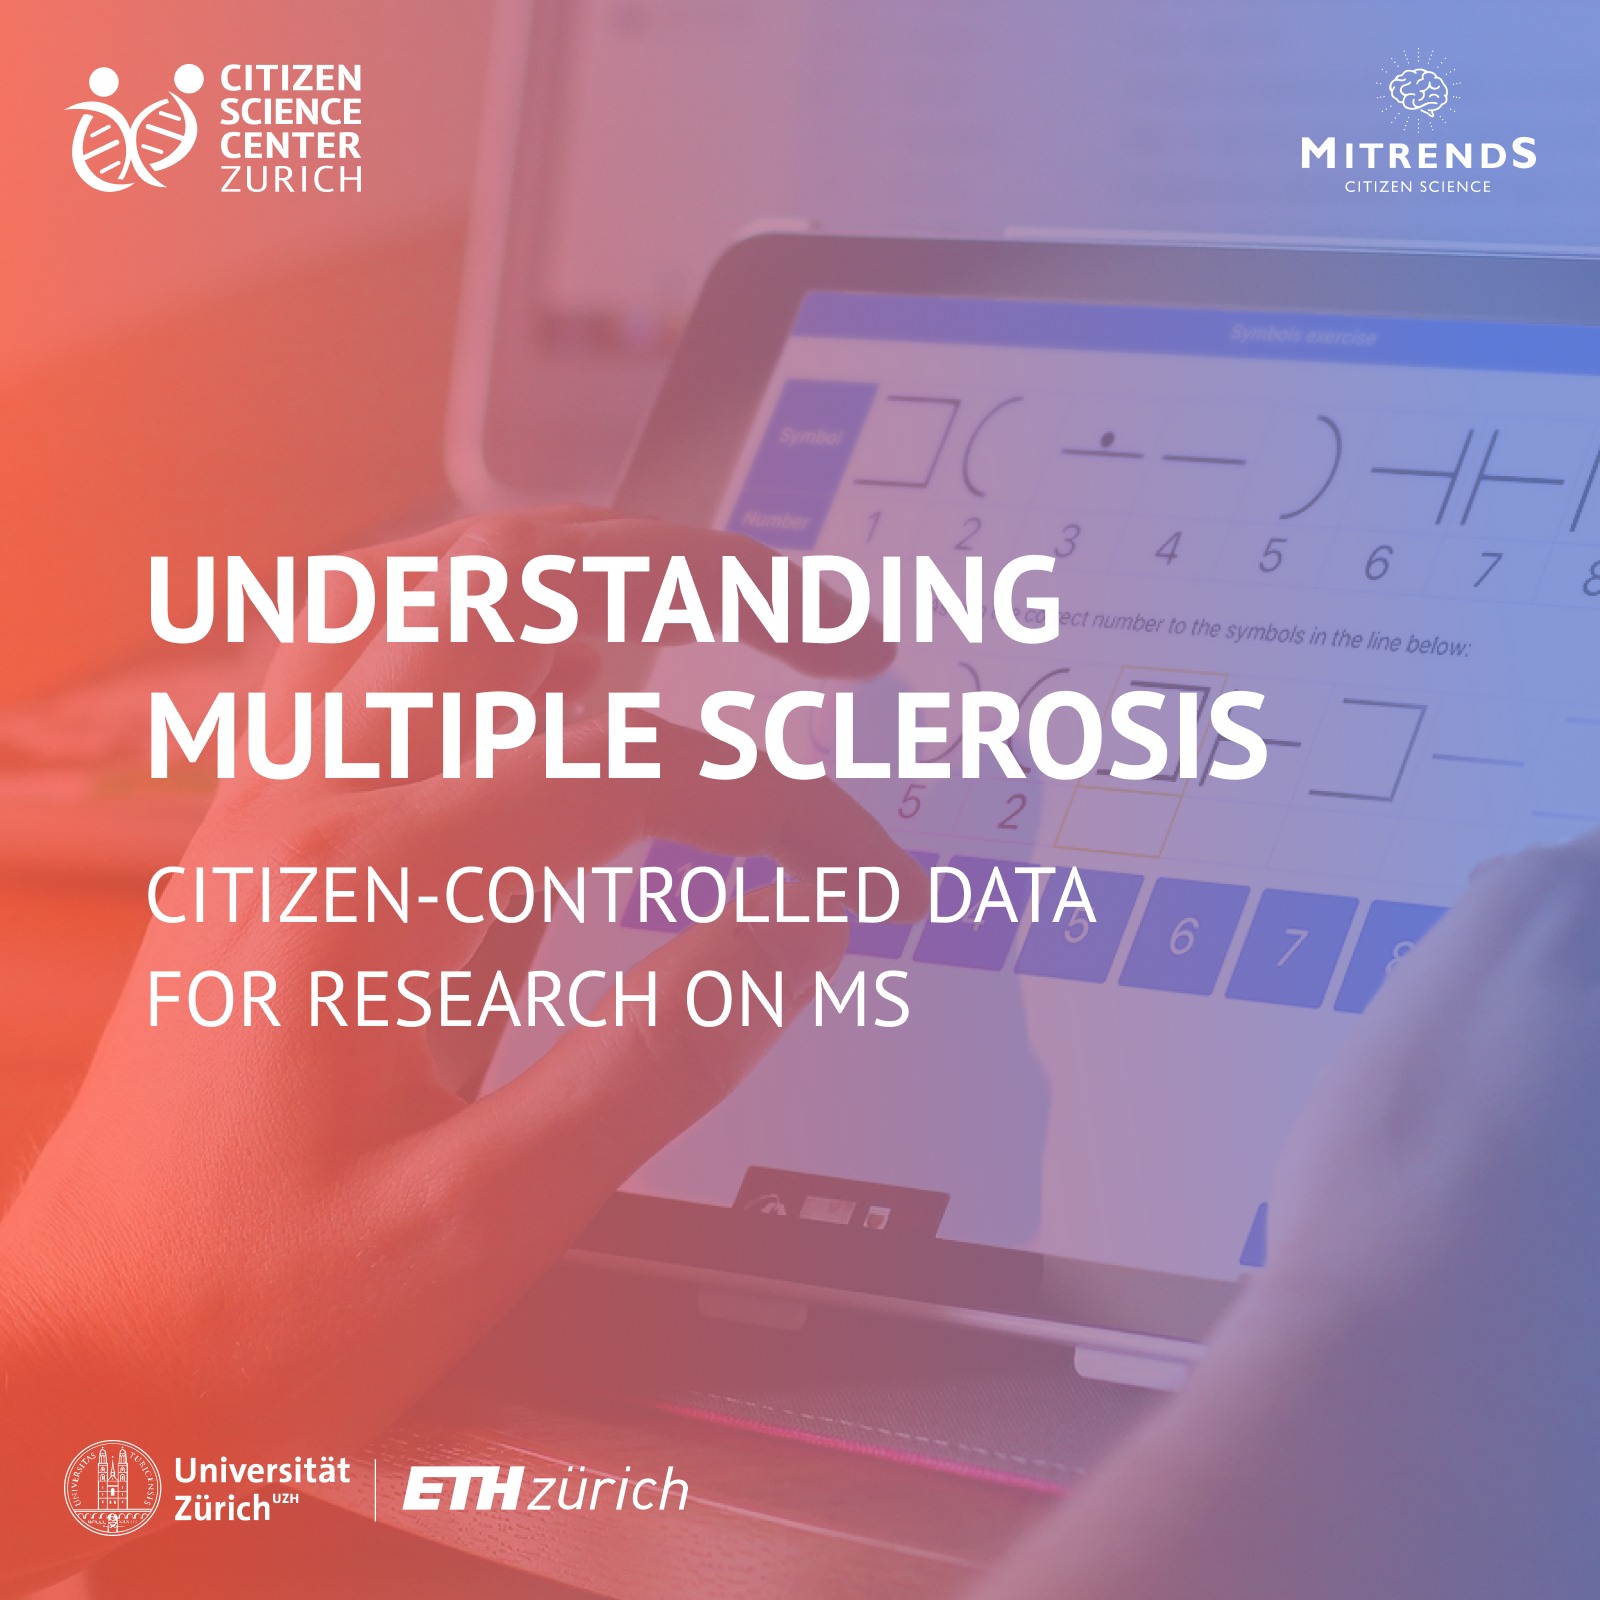
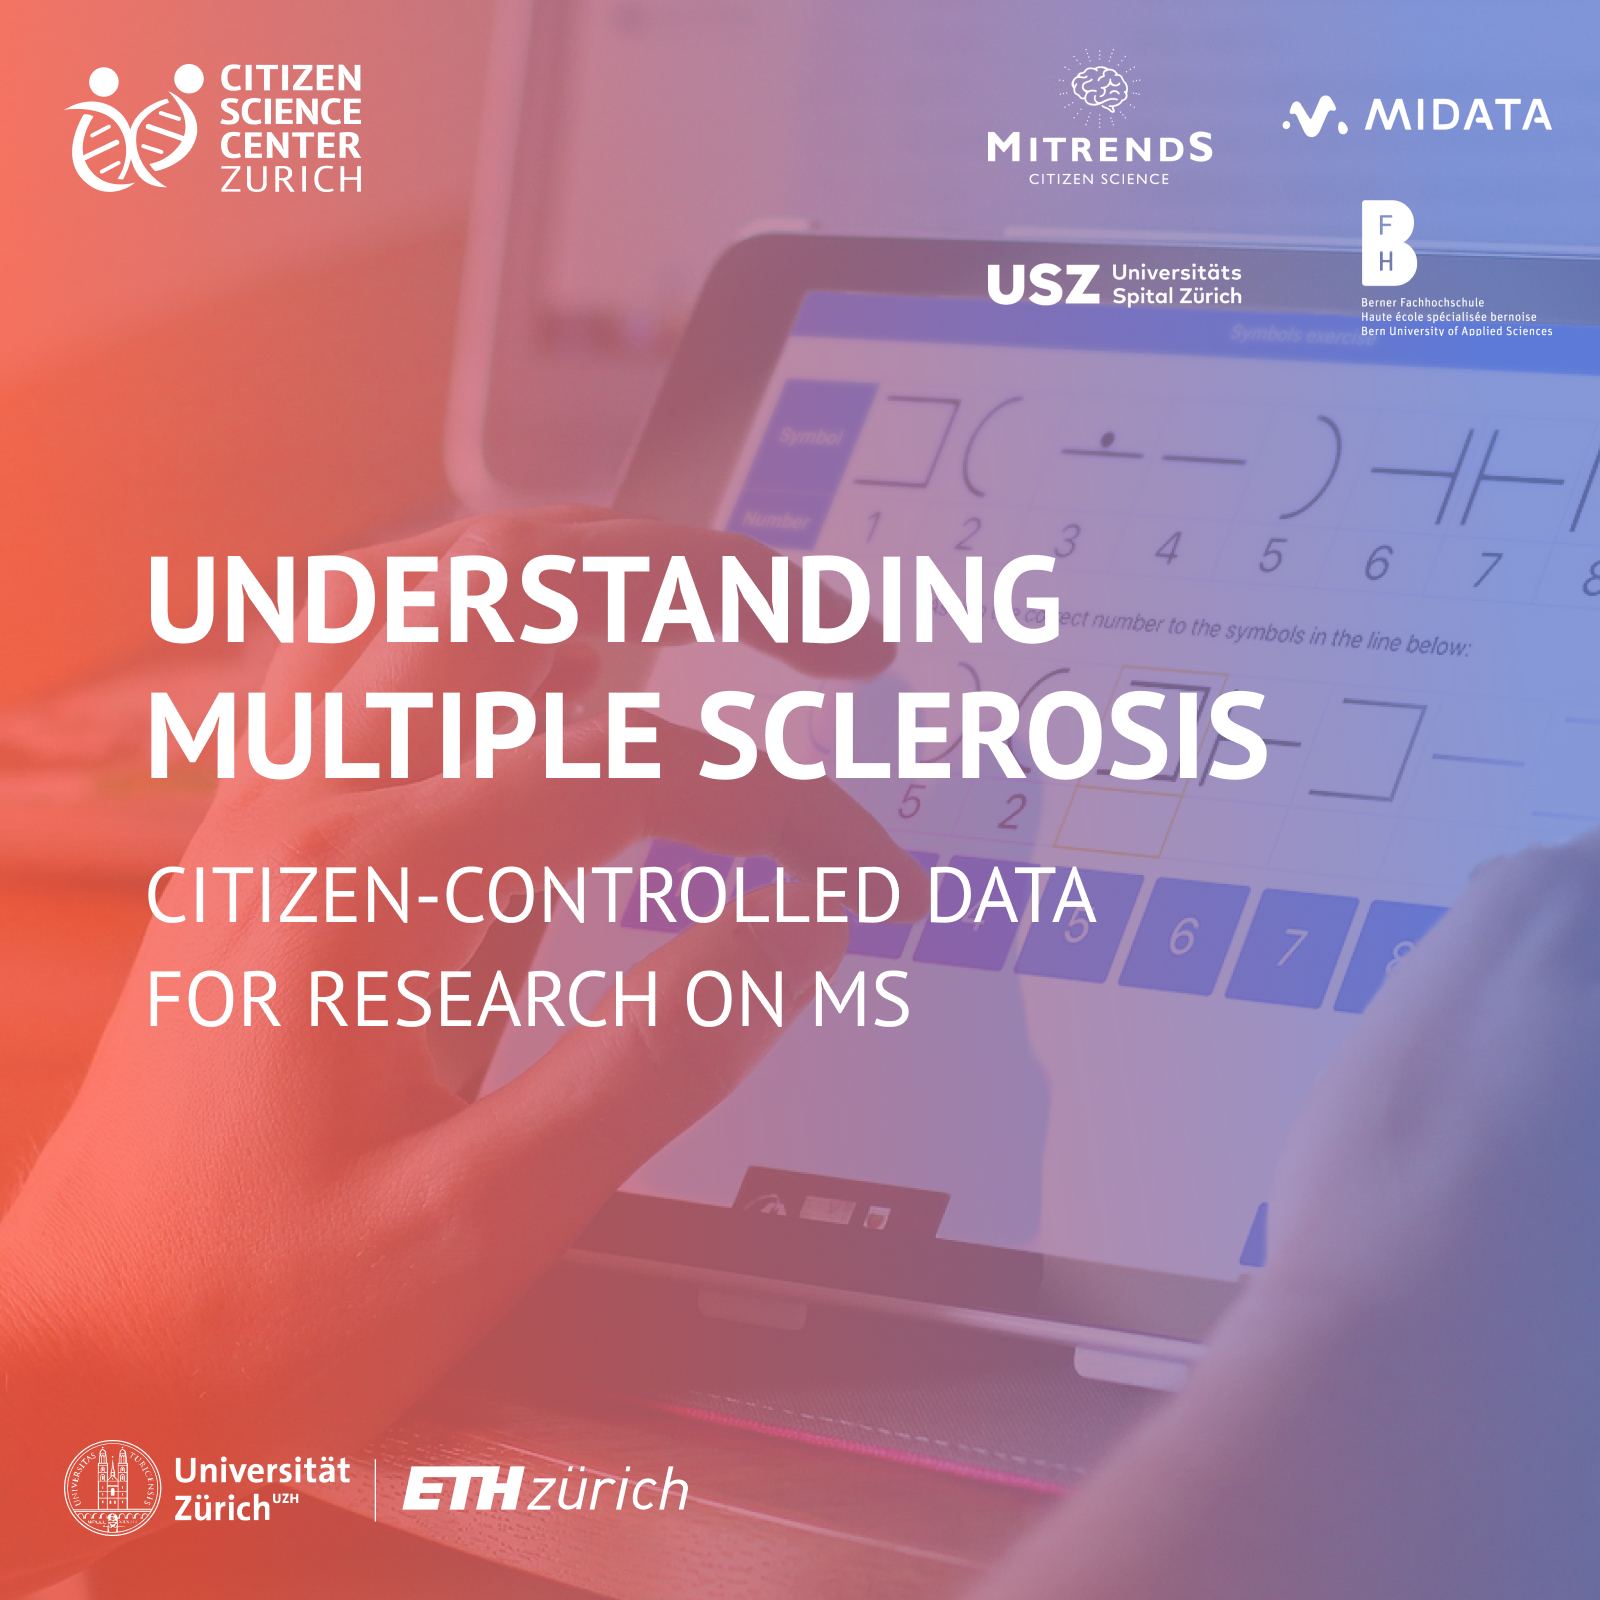
content changes

Changed region(s): [[0.8125, 0.0312, 0.9688, 0.2188], [0.625, 0.0312, 0.75, 0.125], [0.5938, 0.1562, 0.7812, 0.1875]]

diff --git a/src/views/Study.vue b/src/views/Study.vue
@@ -5,7 +5,7 @@
 
   "page-title": "The Study",
 
-  "ms-heading": "What is Multiple Sclerosis?",
+  "ms-heading": "What Is Multiple Sclerosis?",
   "ms-text": "Multiple Sclerosis (MS) is a chronic disease of the central nervous system. The protective and insulating cells of the nerves of the brain and spinal cord are attacked and destroyed by the body’s immune system. This results in an individual constellation of symptoms for each patient. The exact mechanisms that lead to MS are still being investigated. At the moment we know that it is a complex interaction of multiple sources. Infectious as well as genetic and environmental influences contribute to the development of the disease.  Although new drugs are able to stop the progression of the disease to a large extent, it involves slowing down the body’s immune system, which leads to side effects such as increased susceptibility to sickness.  A cure for MS does not yet exist. In addition to the development of targeted drugs, the development of new measurement methods for the more accurate recording of individual symptoms is also important. This is the goal of the MitrendS study.",
 
   "study-heading": "The Study",
@@ -15,11 +15,13 @@
   "study-text-4": "By participating in this citizen science project, you will help us to gain a deeper, more differentiated knowledge of the individual progression of the disease and symptoms of MS.",
   "study-text-5": "To learn more about the study, visit our website:",
   "study-button": "MitrendS.ch",
+  "study-button-link" : "https://mitrends.ch/en",
 
   "data-heading": "Data Usage",
   "data-text-1": "The data is stored on individual user accounts on the MIDATA platform. Thus, the data remains completely in the possession and under the control of the users. The non-profit MIDATA cooperative runs a platform which supports data-driven research through patient empowerment and citizen science approaches. The MIDATA platform provides a personal and secure environment to merge the data collected by various mobile applications (i.e., MitrendS) with health-related data from hospitals and physicians. This data is used for results evaluation and research. Users have complete control about data sharing. Any type of data sharing requires their consent.",
   "data-text-2": "For further information about MIDATA and its structure, visit:",
-  "data-button": "midata.coop"
+  "data-button": "midata.coop",
+  "data-button-link" : "https://www.midata.coop/en"
 
   },
   "de": {
@@ -36,11 +38,13 @@
   "study-text-4": "Mit der Teilnahme an dieser Studie helfen Sie uns vertiefte, differenzierte Kenntnisse über den individuellen Krankheitsverlauf und Symptome der Multiplen Sklerose zu erlangen.",
   "study-text-5": "Um mehr über die Studie zu erfahren, besuchen Sie unsere Website:",
   "study-button": "MitrendS.ch",
+  "study-button-link" : "https://mitrends.ch/de",
 
   "data-heading": "Datennutzung",
   "data-text-1": "Die Daten werden auf dem entsprechenden Benutzerkonto der MIDATA-Plattform gespeichert. Somit bleiben die Daten vollständig in Besitz und unter Kontrolle der Nutzenden. Die MIDATA Genossenschaft ist eine komplett unabhängige Plattform und unterstützt datengetriebene Forschung durch Patientenbefähigung und «Citizen Science» Ansätze. Die MIDATA-Plattform bietet eine persönliche und sichere Umgebung, um die von verschiedenen mobilen Anwendungen (z.B. MitrendS) gesammelten Daten mit gesundheitsbezogenen Daten von Spitälern und Gesundheitsfachpersonen zusammenzuführen. Diese Daten werden für die Ergebnisbewertung und Forschung verwendet. Die Nutzerinnen und Nutzer haben die vollständige Kontrolle über die gemeinsame Nutzung der Daten. Jede Art der gemeinsamen Nutzung von Daten erfordert ihre Zustimmung.",
   "data-text-2": "Weitere Informationen über MIDATA:",
-  "data-button": "midata.coop"
+  "data-button": "midata.coop",
+  "data-button-link" : "https://www.midata.coop"
 
   }
 
@@ -96,7 +100,7 @@
             <p v-html="$t('study-text-5')"></p>
             <div class="margin-bottom">
               <div class="button-group centered left-aligned-large">
-                <a href="https://mitrends.ch/" target="_blank" class="button button-primary button-icon button-normal-case">
+                <a :href="$t('study-button-link')" target="_blank" class="button button-primary button-icon button-normal-case">
                   <svg xmlns="http://www.w3.org/2000/svg" viewBox="0 0 576 576"><path d="M576,56V184c0,21.47-26,32-41,17l-35.71-35.71L255.8,408.77a24,24,0,0,1-33.94,0l-22.63-22.63a24,24,0,0,1,0-33.94L442.76,108.68,407.05,73C392,57.9,402.66,32,424,32H552A24,24,0,0,1,576,56ZM407,302.79l-16,16a24,24,0,0,0-7,17V480H64V160H328a24,24,0,0,0,17-7l16-16c15.12-15.12,4.41-41-17-41H48A48,48,0,0,0,0,144V496a48,48,0,0,0,48,48H400a48,48,0,0,0,48-48V319.76C448,298.38,422.15,287.67,407,302.79Z"/></svg>
                   {{ $t('study-button') }}
                 </a>
@@ -127,7 +131,7 @@
             <p v-html="$t('data-text-1')"></p>
             <p v-html="$t('data-text-2')"></p>
             <div class="button-group centered left-aligned-large">
-              <a href="https://midata.coop" target="_blank" class="button button-primary button-icon button-normal-case">
+              <a :href="$t('data-button-link')" target="_blank" class="button button-primary button-icon button-normal-case">
                 <svg xmlns="http://www.w3.org/2000/svg" viewBox="0 0 576 576"><path d="M576,56V184c0,21.47-26,32-41,17l-35.71-35.71L255.8,408.77a24,24,0,0,1-33.94,0l-22.63-22.63a24,24,0,0,1,0-33.94L442.76,108.68,407.05,73C392,57.9,402.66,32,424,32H552A24,24,0,0,1,576,56ZM407,302.79l-16,16a24,24,0,0,0-7,17V480H64V160H328a24,24,0,0,0,17-7l16-16c15.12-15.12,4.41-41-17-41H48A48,48,0,0,0,0,144V496a48,48,0,0,0,48,48H400a48,48,0,0,0,48-48V319.76C448,298.38,422.15,287.67,407,302.79Z"/></svg>
                 {{ $t('data-button') }}
               </a>

diff --git a/src/views/About.vue b/src/views/About.vue
@@ -17,8 +17,13 @@
 
   "sdsc-subheading": "Swiss Data Science Center",
 
-  "usz-subheading": "Neurology and MS Research (nims)"
+  "usz-subheading": "Neurology and MS Research (nims)",
 
+  "sponsors-heading": "Sponsors",
+  "sponsors-text": "The MitrendS app is provided by the MIDATA Cooperative. The following national initiatives have contributed to the development of the app:",
+  "sponsors-bullet-1": "PHRT - <a href='https://www.sfa-phrt.ch/projects' target='_blank'>Personalized Health and Related Technologies</a>",
+  "sponsors-bullet-2": "SDSC - <a href='https://datascience.ch/' target='_blank'>Swiss Data Science Center</a>",
+  "sponsors-bullet-3": "<a href='https://www.multiplesclerosis.uzh.ch/en.html' target='_blank'>Clinical Research Program Multiple Sclerosis</a>"
 
   },
   "de": {
@@ -37,7 +42,13 @@
 
   "sdsc-subheading": "Swiss Data Science Center",
 
-  "usz-subheading": "Neurology and MS Research (nims)"
+  "usz-subheading": "Neurology and MS Research (nims)",
+
+  "sponsors-heading": "Sponsoren",
+  "sponsors-text": "Die MitrendS-App wird von der MIDATA-Genossenschaft bereitgestellt. Die folgenden nationalen Initiativen haben zur Entwicklung der App beigetragen:",
+  "sponsors-bullet-1": "PHRT - <a href='https://www.sfa-phrt.ch/projects' target='_blank'>Personalized Health and Related Technologies</a>",
+  "sponsors-bullet-2": "SDSC - <a href='https://datascience.ch/' target='_blank'>Swiss Data Science Center</a>",
+  "sponsors-bullet-3": "<a href='https://www.multiplesclerosis.uzh.ch/en.html' target='_blank'>Clinical Research Program Multiple Sclerosis</a>"
 
   }
 
@@ -69,11 +80,6 @@
   "partners-subheading": "Partners",
   "partners-text": "Find a complete list of our partners on our website",
   "partners-button": "Our Partners",
-  "sponsors-subheading": "Sponsors",
-  "sponsors-text": "The MitrendS app is provided by the MIDATA Cooperative. The following national initiatives have contributed to the development of the app:",
-  "sponsors-bullet-1": "PHRT - <a href='https://www.sfa-phrt.ch/projects' target='_blank'>Personalized Health and Related Technologies</a>",
-  "sponsors-bullet-2": "SDSC - <a href='https://datascience.ch/' target='_blank'>Swiss Data Science Center</a>",
-  "sponsors-bullet-3": "<a href='https://www.multiplesclerosis.uzh.ch/en.html' target='_blank'>Clinical Research Program Multiple Sclerosis</a>"
   -->
   <div>
 
@@ -103,6 +109,7 @@
                       <li>Gabriel Hess</li>
                       <li>Stefan Iseli</li>
                       <li>Carole Kaiser</li>
+                      <li>Alexander Kreutz</li>
                       <li>Daniel Lawniczak</li>
                       <li>Lea Meier</li>
                       <li>François von Kaenel</li>
@@ -252,6 +259,24 @@
               -->
 
             </div>
+          </div>
+
+        </div>
+      </div>
+    </app-content-section>
+
+    <app-content-section color="light-greyish">
+      <div class="content-wrapper">
+        <div class="row row-centered">
+
+          <div class="col col-large-6 scroll-effect">
+            <h2 class="heading centered">{{ $t('sponsors-heading') }}</h2>
+            <p class="reduced-bottom-margin" v-html="$t('sponsors-text')"></p>
+            <ul>
+              <li v-html="$t('sponsors-bullet-1')" ></li>
+              <li v-html="$t('sponsors-bullet-2')" ></li>
+              <li v-html="$t('sponsors-bullet-3')" ></li>
+            </ul>
           </div>
 
         </div>

diff --git a/src/views/Home.vue b/src/views/Home.vue
@@ -8,13 +8,13 @@
   "cover-button-primary": "Take Part",
   "cover-button-secondary": "About the Study",
 
-  "study-heading": "What is this Study About?",
+  "study-heading": "What Is This Study About?",
   "study-text-1": "Multiple Sclerosis (MS) is an inflammatory disease of the nervous system. In Switzerland, <a href='https://www.multiplesklerose.ch/de/ueber-ms/multiple-sklerose/vorkommen/' target='_blank'>around 15,000 people are affected</a>.",
   "study-text-2": "The purpose of MitrendS is to discover new information about symptoms and physical limitations in patients with Multiple Sclerosis. In the citizen science part of the project, healthy people can participate and collect baseline and comparative data by using a tablet app designed for this purpose.",
   "study-text-3": "The MitrendS study will help researchers to gain a deeper, more differentiated knowledge of the individual progression of the disease and symptoms of MS.",
   "study-button": "About the Study",
 
-  "take-part-heading": "Help us With Your Contribution",
+  "take-part-heading": "Help Us With Your Contribution",
   "take-part-text": "With your contribution, you power medical research! Three exercises will be performed:",
   "take-part-bullet-1": "The lines exercise",
   "take-part-bullet-2": "The points exercise",
@@ -26,7 +26,7 @@
   "de": {
 
   "cover-heading": "Multiple Sklerose<br>verstehen",
-  "cover-subheading": "Bürger generieren Daten für die MS-Forschung",
+  "cover-subheading": "Bürger generieren Daten für<br>die MS-Forschung",
   "cover-button-primary": "Teilnehmen",
   "cover-button-secondary": "Über die Studie",
 
@@ -51,7 +51,7 @@
 <template>
   <div>
 
-    <app-cover imageUrl="/img/cover.jpg" goal="3" logoUrl="/img/logo-mitrends.svg">
+    <app-cover imageUrl="/img/cover.jpg" goal="3" logoUrl="/img/logo-combo.png" logosMitrends>
       <div class="row row-centered">
         <div class="col col-large-8">
           <h2 class="cover-heading scroll-effect" v-html="$t('cover-heading')"></h2>
@@ -66,7 +66,7 @@
         <div class="col col-large-8">
           <div class="button-group centered scroll-effect scroll-effect-delayed-2">
             <router-link tag="button" to="/take-part" class="button button-primary">{{ $t('cover-button-primary') }}</router-link>
-            <router-link tag="button" to="/about" class="button button-secondary button-secondary-inverted">{{ $t('cover-button-secondary') }}</router-link>
+            <router-link tag="button" to="/study" class="button button-secondary button-secondary-inverted">{{ $t('cover-button-secondary') }}</router-link>
           </div>
         </div>
       </div>
@@ -89,7 +89,7 @@
               <p v-html="$t('study-text-2')" class="reduced-bottom-margin"></p>
               <p v-html="$t('study-text-3')" class="reduced-bottom-margin"></p>
               <div class="button-group centered left-aligned-large">
-                <router-link tag="button" to="/about" class="button button-primary">{{ $t('study-button') }}</router-link>
+                <router-link tag="button" to="/study" class="button button-primary">{{ $t('study-button') }}</router-link>
               </div>
             </div>
           </div>

diff --git a/src/views/TakePart.vue b/src/views/TakePart.vue
@@ -10,7 +10,7 @@
   "participating-bullet-1": "Age 18 years or older",
   "participating-bullet-2": "Swiss resident",
   "participating-bullet-3": "Own and be able to use an Android or Apple tablet",
-  "participating-bullet-4": "Own a <a href='https://www.midata.coop/' target='_blank'>MIDATA</a> account or be willing to create one",
+  "participating-bullet-4": "Own a <a href='https://www.midata.coop/en' target='_blank'>MIDATA</a> account or be willing to create one",
   "participating-bullet-5": "Agree to follow the study protocol",
   "participating-bullet-6": "Willing to share the data collected while using MitrendS in an anonymized form with the study team",
   "protocol-heading": "Study Protocol",
@@ -54,7 +54,7 @@
   "participating-heading": "Studienteilnahme",
   "participating-text": "Wer kann teilnehmen?",
   "participating-bullet-1": "Mind. 18 Jahre alt",
-  "participating-bullet-2": "Schweizer Bürgerinnen und Bürger",
+  "participating-bullet-2": "Personen mit Wohnsitz in der Schweiz",
   "participating-bullet-3": "In Besitz und fähig, ein Android oder Apple Tablet zu benutzen",
   "participating-bullet-4": "In Besitz eines <a href='https://www.midata.coop/' target='_blank'>MIDATA</a>-Accounts oder in Bereitschaft, einen Account zu erstellen",
   "participating-bullet-5": "Zustimmung, dem Studienprotokoll zu folgen",

diff --git a/src/components/SectionContact.vue b/src/components/SectionContact.vue
@@ -3,7 +3,7 @@
 
     "en": {
 
-    "contact-heading": "Contact us",
+    "contact-heading": "Contact Us",
     "contact-text": "<b>Neuroimmunology and MS Research</b><br>Department of Neurology<br>University Hospital Zurich<br>Frauenklinikstrasse 26, 8091 Zürich",
     "contact-website": "nims-zh.ch",
     "contact-email": "nims@usz.ch"
